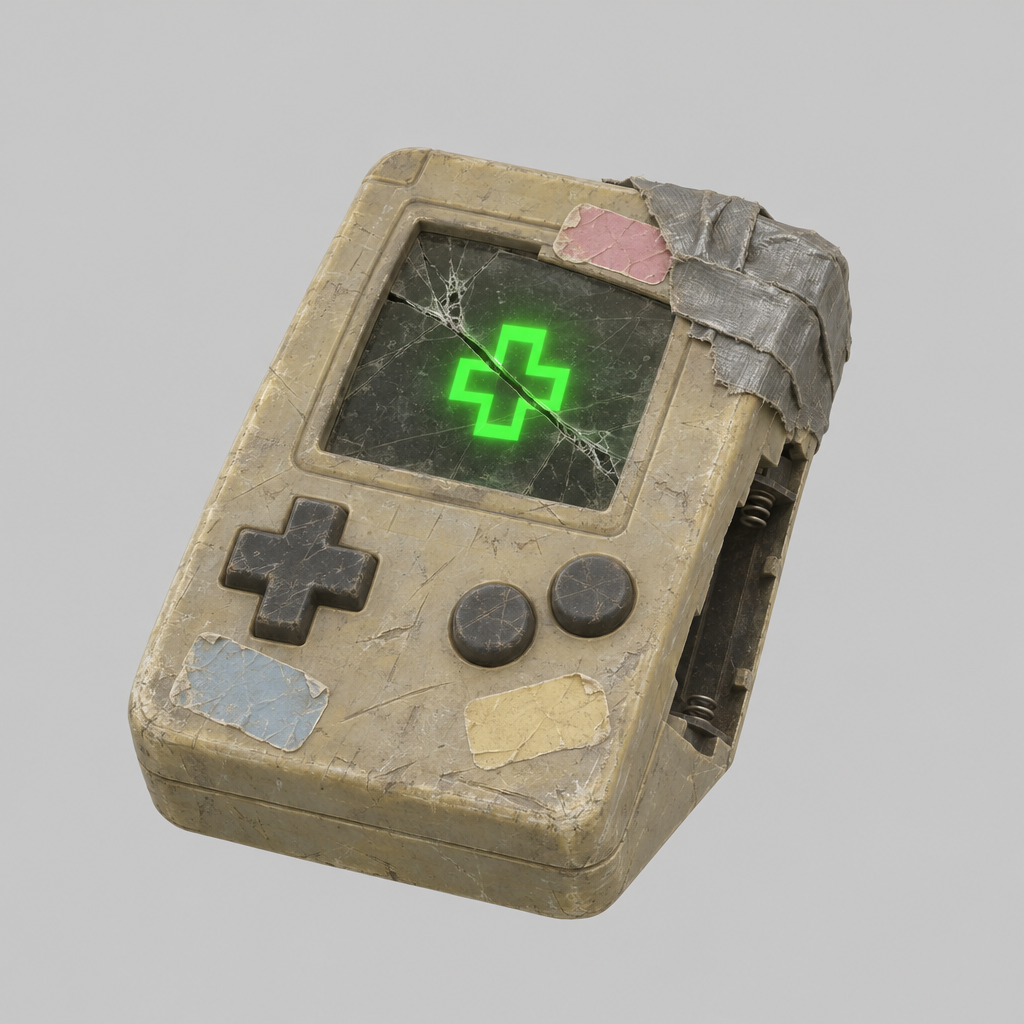
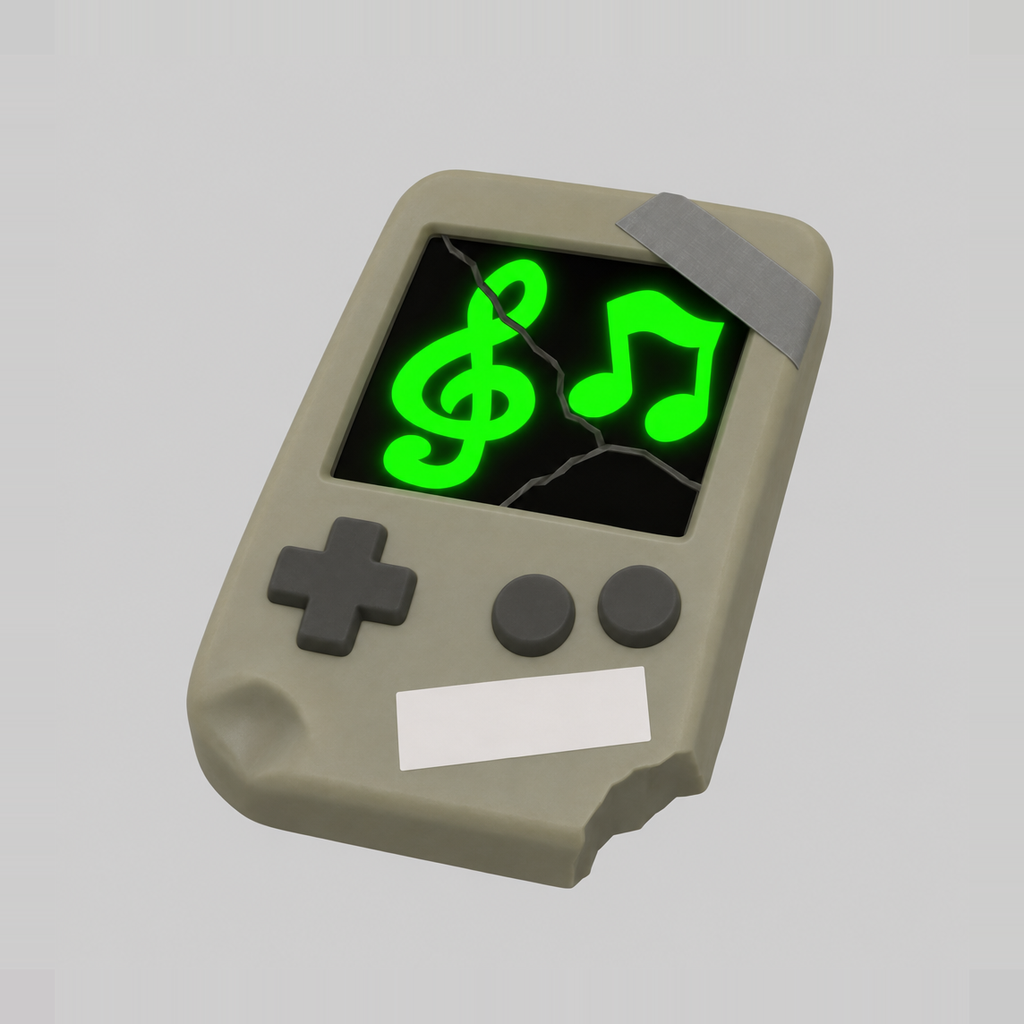
art(debaucheryville): handheld reference round 2, musical symbols, solid damage, grey body (asset team)
Claude-Session: https://claude.ai/code/session_01Rk2Ri3vAu7TBhRadSU9CbJ

Changed region(s): [[0.125, 0.125, 0.8438, 0.9062]]

diff --git a/dev/asset_team/icon_refs/aa_broken_symbol_handheld_prompt.md b/dev/asset_team/icon_refs/aa_broken_symbol_handheld_prompt.md
@@ -1,7 +1,8 @@
-# aa_broken_symbol_handheld (Broken Handheld with Weird Symbols): 3D icon reference prompt (round 1)
+# aa_broken_symbol_handheld (Broken Handheld with Weird Symbols): 3D icon reference prompt, round 2
 
-Firefly home, GPT Image 2.6 Sunburst, 1:1, Quality High, no references. Generated at 1K.
-Canon: design/worlds/debaucheryville/items/absinthe_arcade_items.json entry item_broken_symbol_game_boy (lines 117-140: body sun_yellowed_gray_plastic, screen cracked_with_single_green_symbol_pulse, details foreign_stickers_tape_battery_cover_missing); key_items.json line 310. Replaces the old pixel icon (author: all pixel art redone as 3D). No lettering. Margins L12.5 R16.8 T14.4 B10.2 (Pillow).
-Shows: yellowed-grey handheld, cracked dark screen with one glowing green plus-like symbol (the doc gives no glyph shape; it says musical symbols, so QC may want another glyph), three blank stickers, a tape wad on one corner, open battery bay on the side.
+Round 1 failed A3 (plus sign instead of musical symbols, open battery bay with springs, frayed tape and peeling stickers, web of thin cracks, tan colour). Round 2 is a FRESH generation: Firefly home, GPT Image 2.6 Sunburst, 1:1, Quality High, no references.
+Canon: design/worlds/debaucheryville/items/absinthe_arcade_items.json entry item_broken_symbol_game_boy (lines 117-140: body sun_yellowed_gray_plastic, screen cracked with single green symbol pulse, foreign stickers, tape, battery cover missing; description "unfamiliar musical symbols"); key_items.json line 310. No lettering. Battery cover missing is shown only as a chunky bitten corner, so it stays solid.
+Mechanical fix: first generation had 8.9 percent bottom margin, padded with edge-replicated grey and shrunk (Pillow, no redraw).
+Shows: grey-with-yellow-cast chunky handheld, dark screen with 3 bold cracks and a glowing green treble clef plus eighth note, flat clean tape strip, one blank flat sticker, a dent and a bitten corner.
 
-Prompt: A single beat-up broken 90s handheld game console prop, centred in a flat light-grey square, filling about 60 percent of the frame with a wide empty margin on every side. A fat chunky solid upright rectangular handheld made of sun-yellowed grey plastic, one even yellowed-grey colour, scuffed and scratched, seen from a high three-quarter angle. A big square cracked dead screen with a thick crack across it and one single bold glowing green symbol in the middle of the screen. A chunky dark plus-shaped directional pad and two fat round buttons. Two or three thick blank foreign-looking stickers with no writing, a thick wad of grey duct tape wrapped across one corner, and the battery cover missing, leaving a deep dark chunky battery recess on the back edge. Dollar-store prop, over the top, solid. No text, no letters, no numbers, no logos, no cable, no antenna, no hands, no people, no shadows. Square image.
+Prompt: A single chunky broken 90s handheld game console prop, centred in a flat light-grey square, filling about 60 percent of the frame with a wide empty margin on every side. A fat solid upright rounded-rectangle handheld in one even sun-yellowed medium GRAY plastic (a dull grey with a faint yellow cast, not tan, not khaki, not beige). Smooth simple solid surfaces. A big square dead dark screen with just two or three bold thick cracks across it, and on the screen two large bold glowing green MUSICAL symbols, a fat treble clef and a fat eighth note, warped and odd, drawn as thick chunky solid glyphs. A chunky dark plus-shaped directional pad and two fat round buttons, all solid. One big flat strip of grey duct tape stuck flat across the top corner, with clean straight edges, and one thick blank flat sticker with clean edges and no writing. One big dent and one missing chunk at a bottom corner, solid. The back is fully closed, no battery bay, no springs, no wires, no peeling edges, no web of fine cracks, no thin parts. No text, no letters, no numbers, no logos, no hands, no people, no shadows. Seen from a high three-quarter angle. Square image.
